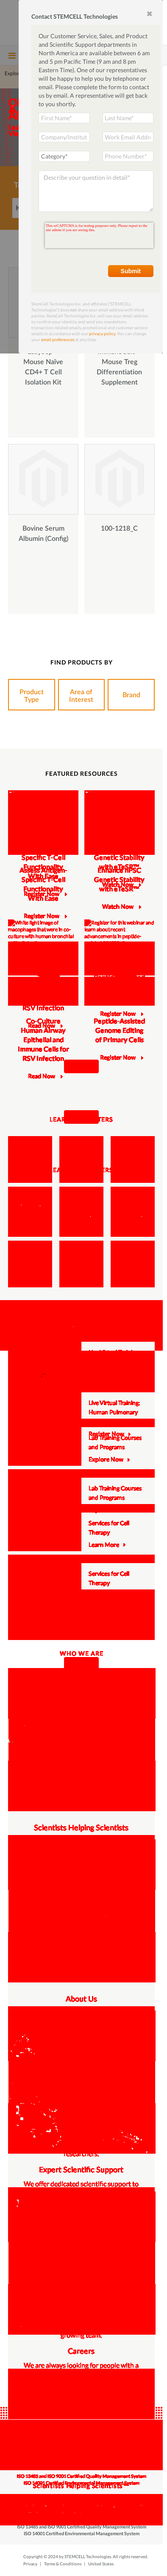
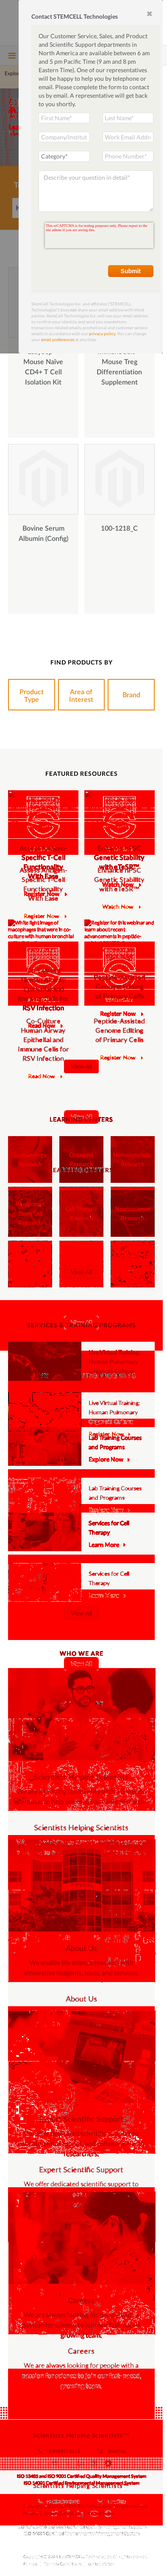
pixel threshold added

diff --git a/src/ImageComparator.cpp b/src/ImageComparator.cpp
@@ -3,9 +3,10 @@
 #include "ErrorPixelTransform.h"
 #include <opencv2/opencv.hpp>
 #include <iostream>
+#include <cmath>
 
 ImageComparator::ImageComparator(const std::string& imgPath1, const std::string& imgPath2)
-    : imgPath1(imgPath1), imgPath2(imgPath2), mismatchPaintColor(cv::Vec3b(0, 0, 255)), ignoreAntialiasing(true), ignoreColors(false), ignoreAlpha(false), errorPixelTransform(ErrorPixelTransform::flat) {} // Default values
+    : imgPath1(imgPath1), imgPath2(imgPath2), mismatchPaintColor(cv::Vec3b(0, 0, 255)), ignoreAntialiasing(true), ignoreColors(false), ignoreAlpha(false), pixelThreshold(0.1), errorPixelTransform(ErrorPixelTransform::flat) {} // Default values
 
 void ImageComparator::setMismatchPaintColor(const cv::Vec3b& color) {
     mismatchPaintColor = color;
@@ -21,6 +22,10 @@ void ImageComparator::setIgnoreColors(bool value) {
 
 void ImageComparator::setIgnoreAlpha(bool value) {
     ignoreAlpha = value;
+}
+
+void ImageComparator::setPixelThreshold(double value) {
+    pixelThreshold = value;
 }
 
 void ImageComparator::setErrorPixelTransform(void (*transformFunc)(cv::Vec4b&, const cv::Vec4b&, const cv::Vec4b&, const cv::Vec4b&)) {
@@ -49,7 +54,16 @@ bool ImageComparator::comparePixels(const cv::Mat& img1, const cv::Mat& img2, in
                 return false;
             }
         } else {
-            if (pixel1 == pixel2) {
+            // Calculate Euclidean distance between the pixels
+            double distance = std::sqrt(
+                std::pow(static_cast<double>(pixel1[0]) - pixel2[0], 2.0) +
+                std::pow(static_cast<double>(pixel1[1]) - pixel2[1], 2.0) +
+                std::pow(static_cast<double>(pixel1[2]) - pixel2[2], 2.0) +
+                std::pow(static_cast<double>(pixel1[3]) - pixel2[3], 2.0)
+            );
+
+            double maxDistance = std::sqrt(4.0 * 255.0 * 255.0);
+            if (distance / maxDistance < pixelThreshold) {
                 return false;
             }
         }
@@ -81,12 +95,10 @@ void ImageComparator::exactComparison(const std::string& outputPath) const {
             return;
         }
 
-        if (baseImg.cols != compareImg.cols) {
-            std::cerr << "Images do not have the same width!" << std::endl;
-            return;
-        }
+        int maxWidth = std::max(baseImg.cols, compareImg.cols);
+        int maxHeight = std::max(baseImg.rows, compareImg.rows);
 
-        // Convert images to 4 channels if they don't have enough channels
+        // Ensure both images have 4 channels
         if (baseImg.channels() < 4) {
             cv::cvtColor(baseImg, baseImg, cv::COLOR_BGR2BGRA);
         }
@@ -94,28 +106,31 @@ void ImageComparator::exactComparison(const std::string& outputPath) const {
             cv::cvtColor(compareImg, compareImg, cv::COLOR_BGR2BGRA);
         }
 
-        int maxHeight = std::max(baseImg.rows, compareImg.rows);
-        cv::Mat resultImg = (baseImg.rows >= compareImg.rows) ? baseImg.clone() : compareImg.clone();
-        cv::resize(resultImg, resultImg, cv::Size(resultImg.cols, maxHeight));
+        // Create a new canvas with the max dimensions and fill with a background color (e.g., black)
+        cv::Mat canvas = cv::Mat::zeros(maxHeight, maxWidth, CV_8UC4);
+        cv::Mat baseCanvas = canvas.clone();
+        cv::Mat compareCanvas = canvas.clone();
+
+        // Copy baseImg and compareImg into their respective canvases
+        baseImg.copyTo(baseCanvas(cv::Rect(0, 0, baseImg.cols, baseImg.rows)));
+        compareImg.copyTo(compareCanvas(cv::Rect(0, 0, compareImg.cols, compareImg.rows)));
+
+        cv::Mat resultImg = baseCanvas.clone();
 
         // Convert mismatchPaintColor from Vec3b to Vec4b
         cv::Vec4b mismatchColor4b(mismatchPaintColor[0], mismatchPaintColor[1], mismatchPaintColor[2], 255);
 
         int mismatchedPixels = 0;
-        for (int y = 0; y < std::min(baseImg.rows, compareImg.rows); ++y) {
-            for (int x = 0; x < baseImg.cols; ++x) {
-                if (comparePixels(baseImg, compareImg, x, y, baseImg.cols, baseImg.rows)) {
-                    if (x >= resultImg.cols || y >= resultImg.rows) {
-                        std::cerr << "Attempted to access pixel out of bounds at (" << x << ", " << y << ")" << std::endl;
-                        continue;
-                    }
-                    errorPixelTransform(resultImg.at<cv::Vec4b>(y, x), baseImg.at<cv::Vec4b>(y, x), compareImg.at<cv::Vec4b>(y, x), mismatchColor4b); // Use the error pixel transform function
+        for (int y = 0; y < maxHeight; ++y) {
+            for (int x = 0; x < maxWidth; ++x) {
+                if (comparePixels(baseCanvas, compareCanvas, x, y, maxWidth, maxHeight)) {
+                    errorPixelTransform(resultImg.at<cv::Vec4b>(y, x), baseCanvas.at<cv::Vec4b>(y, x), compareCanvas.at<cv::Vec4b>(y, x), mismatchColor4b); // Use the error pixel transform function
                     ++mismatchedPixels;
                 }
             }
         }
 
-        double mismatchPercentage = 100.0 * mismatchedPixels / (baseImg.rows * baseImg.cols);
+        double mismatchPercentage = 100.0 * mismatchedPixels / (maxHeight * maxWidth);
         std::cout << "Mismatch Percentage: " << mismatchPercentage << "%" << std::endl;
 
         cv::imwrite(outputPath, resultImg);

diff --git a/src/main.cpp b/src/main.cpp
@@ -40,7 +40,25 @@ int main(int argc, char** argv) {
     bool ignoreAntialiasing = true; // Default true
     bool ignoreColors = false; // Default false
     bool ignoreAlpha = false; // Default false
-    std::string transformType = "movement"; // Default transform type
+    double pixelThreshold = 0.1; // Default threshold value
+    std::string transformType = "flat"; // Default transform type
+
+    // Process command line arguments
+    for (int i = 1; i < argc; ++i) {
+        if (std::string(argv[i]) == "--mismatchColor" && i + 1 < argc) {
+            mismatchColor = parseColor(argv[++i]);
+        } else if (std::string(argv[i]) == "--ignoreAntialiasing" && i + 1 < argc) {
+            ignoreAntialiasing = std::stoi(argv[++i]) != 0;
+        } else if (std::string(argv[i]) == "--ignoreColors" && i + 1 < argc) {
+            ignoreColors = std::stoi(argv[++i]) != 0;
+        } else if (std::string(argv[i]) == "--ignoreAlpha" && i + 1 < argc) {
+            ignoreAlpha = std::stoi(argv[++i]) != 0;
+        } else if (std::string(argv[i]) == "--pixelThreshold" && i + 1 < argc) {
+            pixelThreshold = std::stod(argv[++i]);
+        } else if (std::string(argv[i]) == "--transformType" && i + 1 < argc) {
+            transformType = argv[++i];
+        }
+    }
 
     // Loop through each image and compare
     for (int i = 1; i < 5; ++i) {
@@ -53,6 +71,7 @@ int main(int argc, char** argv) {
         comparator.setIgnoreAntialiasing(ignoreAntialiasing);
         comparator.setIgnoreColors(ignoreColors);
         comparator.setIgnoreAlpha(ignoreAlpha);
+        comparator.setPixelThreshold(pixelThreshold);
         setErrorPixelTransformFunction(comparator, transformType);
         comparator.exactComparison(outputPath);
 

diff --git a/include/ImageComparator.h b/include/ImageComparator.h
@@ -12,6 +12,7 @@ public:
     void setIgnoreAntialiasing(bool value);
     void setIgnoreColors(bool value);
     void setIgnoreAlpha(bool value); // New method to set ignoreAlpha flag
+    void setPixelThreshold(double value); // New method to set pixel threshold
     void setErrorPixelTransform(void (*transformFunc)(cv::Vec4b&, const cv::Vec4b&, const cv::Vec4b&, const cv::Vec4b&)); // Set the error pixel transform function
     void exactComparison(const std::string& outputPath) const;
 
@@ -21,7 +22,8 @@ private:
     cv::Vec3b mismatchPaintColor;
     bool ignoreAntialiasing;
     bool ignoreColors;
-    bool ignoreAlpha; // New flag to ignore alpha channel
+    bool ignoreAlpha;  
+    double pixelThreshold; 
     void (*errorPixelTransform)(cv::Vec4b&, const cv::Vec4b&, const cv::Vec4b&, const cv::Vec4b&); // Error pixel transform function
 
     bool comparePixels(const cv::Mat& img1, const cv::Mat& img2, int x, int y, int width, int height) const;
